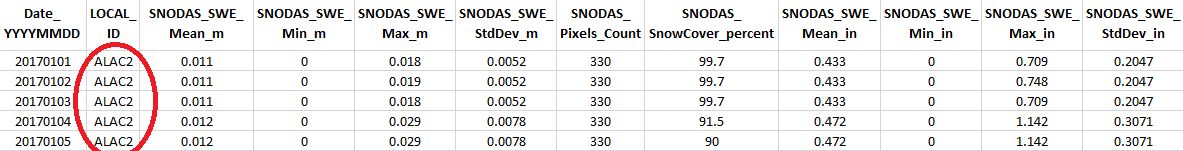
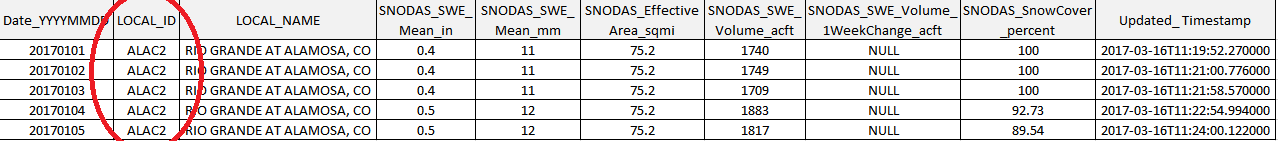
First stage of completing the User Documentation. Although not complete, it is important that this stage of development be pushed up because a version of this document is currently live for our stakeholders to view. The secondary stage will be pushed up/commited when it has been completed.

diff --git a/doc-user-mkdocs-project/docs/process/overview.md b/doc-user-mkdocs-project/docs/process/overview.md
@@ -47,8 +47,8 @@ National SNODAS grids are downloaded to the SNODAS Tools computer for processing
 
 [Daily SNODAS data grids](../data/overview.md#snodas-data-grids) are national grids representing a variety of snowpack parameters. They are developed 
 by NOAA National Weather Service’s National Operational Hydrologic Remote Sensing Center (NOHRSC) and hosted by the National Snow and 
-Ice Data Center (NSIDC). NSIDC stores the daily grids, dating back to September 30th,  2003, in a public FTP site 
-[( ftp://sidads.colorado.edu)](ftp://sidads.colorado.edu) that is updated every day. Although, as mentioned before, the SNODAS products 
+Ice Data Center (NSIDC). NSIDC stores the daily grids, dating back to September 30th,  2003, in a public [FTP site]( ftp://sidads.colorado.edu)
+that is updated every day. Although, as mentioned before, the SNODAS products 
 contain many grids of snowpack parameters, the SNODAS Tools are designed to specifically calculate snowpack statistics in regards to the Snow
 Water Equivalent (SWE) grid. Below is an image of a daily SNODAS grid representing SWE values across the nation. The areas of higher SWE are represented 
 by blue while the areas with lower, or no SWE values, are represented by brown. 
@@ -66,9 +66,10 @@ and [present dates](#download-snodas-data-each-new-day) of SNODAS daily data.
 
 ### Download SNODAS Data (Historical)
 
-The organization of SNODAS files has changed over time. Therefore, the tools perform clean-up to put data into a common format and 
-naming convention for additional processing. Because the national grids are relatively large, they are 
-[clipped to Colorado boundary in the next step](#clip-national-snodas-grid-to-colorado).
+The SNODAS Tools contain a script to download and process all available **historical** dates of SNODAS data. Refer to the
+[SNODAS Tools' Scripts](http://software.openwaterfoundation.org/cdss-app-snodas-tools-doc-dev/software-design/overview/#snodas-tools-scripts) 
+section of the Developer Manual for further details on the historical processing script. 
+
 
 ### Download SNODAS Data (Each New Day)
 
@@ -82,9 +83,11 @@ be available during SNODAS Tools development depending on ongoing costs
 
 ## Clip National SNODAS Grid to Colorado
 
-The masked [SNODAS data grids](../data/overview.md#snodas-data-grids) cover the contiguous United States. To facilitate processing, the national grid is clipped to 
-a boundary that contains the extent of all basins in Colorado. *Note:* Some Colorado basins extend beyond the Colorado state boundary so 
-the Colorado basin extent extends partially into other states.  
+The masked [SNODAS data grids](../data/overview.md#snodas-data-grids) cover the contiguous United States. To facilitate processing, the
+downloaded daily national grids are clipped to a boundary that contains the extent of all basins in Colorado. 
+ 
+*Note: Some Colorado basins extend beyond the Colorado state boundary so 
+the Colorado basin extent extends partially into other states.*  
 
 ![COBasins](overview-images/CO_basin_boundaries.png)
 *Above: The Colorado basins displayed in green. The outline of the Colorado state boundary is overlaid in balck.*
@@ -117,25 +120,35 @@ The output daily snowpack statistics are specific to each basin of the Colorado 
 [the QGIS Zonal Statistics Plugin](https://docs.qgis.org/2.2/en/docs/user_manual/plugins/plugins_zonal_statistics.html),
 the clipped SNODAS daily grid is intersected with the Colorado basin layer and the following statistics are calculated for each basin:
 
-|Statistic (by Basin)|Units|Description|
-|---------|-----|----------|
-|Snow Water Equivalent (SWE) average|inches and meters|a measure of how much water is available to melt out|
-|Snow Water Equivalent (SWE) minimum|inches and meters|a measure of the smallest daily observation of SWE|
-|Snow Water Equivalent (SWE) maximum|inches and meters|a measure of the largest daily observation of SWE|
-|Snow Water Equivalent (SWE) standard deviation|inches and meters|a measure of SWE variation across the basin|
-|Areal Extent of Snow Cover (percent)|unitless|indicates how much of the basin has some level of snow cover|
+|<center>Daily Statistic|<center>Default <br> or <br> Optional</center>|<center>Description|<center>Units|
+|-|-|-|-|
+|Mean Snow Water Equivalent (SWE)|Default|The mean amount of water contained within the snowpack.|Inches and Millimeters|
+|Effective Area|Default|The approximate area excluding large bodies of water.|Square Miles|
+|Percent of Snow Cover|Default|The percent of effective area covered by snow.|unitless|
+|Snow Volume|Default|The amount of water contained in the entire basin's snowpack. Calculated by multiplying the daily mean SWE value by the daily effective area value.|Acre Feet|
+|1 Week Change in Snow Volume|Default|The difference in the current snow volume value from the snow volume value calculated 7 days prior. If positive, the snowpack volume has increased. If negative, the snowpack volume has decreased.| Acre Feet|
+|Minimum SWE|Optional|The daily minimum SWE value.| Inches and Millimeters|
+|Maximum SWE|Optional|The daily maximum SWE value.|Inches and Millimeters|
+|Standard Deviation of SWE|Optional|A measurement of variation in the basin's daily SWE values.|Inches and Millimeters|
 
-### Snowpack Statistics in Tables
+*Note* - *The optional statistics will not be calculated unless they are configured in the [configuration file](http://software.openwaterfoundation.org/cdss-app-snodas-tools-doc-dev/software-design/file-structure/#snodastools92snodasconfigini)
+prior to utilizing the SNODAS Tools.*
 
-The statistics are written to comma-separated-value (CSV) files. The current date's statistics are compiled with the historical 
+The daily statitics are exported in both tabular and spatial formats. 
+
+### Snowpack Statistics Exported as Tabular Data
+
+The daily snowpack statistics are written to comma-separated-value (CSV) files. The current date's statistics are compiled with the historical 
 statistics to create two large repositories of Colorado snowpack statistics, statistics organized ```by date``` and statistics 
 organized ```by basin```. 
 
 **Colorado Snowpack Statistics organized By Date**  
-In this repository a separate csv file is created for each 
+In this repository a separate csv file is created for *each*
 date of processed SNODAS data. Each csv file contains the snowpack statistics for every Colorado basin specific to that date. 
 This repository is useful when analyzing the differences in snowpack statistics across the entire landscape for a given day.
-Below is an example of the Colorado snowpack statistics organized by date CSV file. Right-click on the image and click *Open image 
+Below is an example of the Colorado snowpack statistics organized by date CSV file. 
+
+Right-click on the image and click *Open image 
 in new tab* to see a larger view. The red circle indicates the date column. Note that the date is unchanging throughout the entire CSV file. 
 
 ![StatsByDate](overview-images/statsbydate.png)
@@ -144,29 +157,36 @@ in new tab* to see a larger view. The red circle indicates the date column. Note
 In this repository a separate csv file is 
 created for each Colorado basin. Each csv file contains the snowpack statistics for all historical dates of processed SNODAS 
 data specific to that Colorado basin. This repository is useful when analyzing the differences in snowpack statistics over time 
-given a specific basin. Below is an example of the Colorado snowpack statistics organized by basin CSV file. Right-click on the 
+given a specific basin. Below is an example of the Colorado snowpack statistics organized by basin CSV file.  
+ 
+Right-click on the 
 image and click *Open image in new tab* to see a larger view. The red circle indicates the 
 unique Colorado basin ID (LOCAL_ID). Note that the LOCAL_ID is unchanging throughout the entire CSV file. 
 
 ![StatsByBasin](overview-images/statsbybasin.png)
 
-### Snowpack Statistics in Choropleth Maps
+### Snowpack Statistics Exported as Spatial Data
 
-The daily snowpack statistics can also be viewed via a [choropleth map](http://www.datavizcatalogue.com/methods/choropleth.html). 
+Along with the tabular data, the SNODAS Tools export the daily statistics as spatial data that 
+can be displayed in a geographic information system or a web mapping application. Both a geoJSON file and a shapefile, 
+with the daily snowpack statistics contained in the attribute tables, is produced for every day of SNODAS data that is processed. 
 
-**TODO smalers 2016-12-11 include links to products**
 
 ## Generate Time Series Snowpack Products
 
-The basin statistics for each basin, for each day of the historical period, as saved in the tabular output described in the previous section,
-can be used to create a time series of the statistic and displayed in graphical form.
-The [CDSS TSTool Software](http://software.openwaterfoundation.org/) is used to automate processing the tabular data into graphs,
-which are made available on the web.
+The SNODAS Tools utilize the [CDSS TSTool Software](http://software.openwaterfoundation.org/) to produce time series 
+graphs of the snowpack statistics for each basin. Four time series graphs, examples below, are created for each basin, one graph 
+per default snowpack statistic.
 
-TSTool is also used to accumulate smaller basin statistics into larger basin statistics, to provide data at streamflow forecast points that are used
-for water management.
 
-**TODO egiles 2017-02-06 insert screen shot of TSTool-produced SNODAS graph**
+1. Mean SWE
+![Time Series Graph - SWE Mean](overview-images/TSGraph_mean.png)
+2. Percent of Snow Cover - This time series graph is the only graph that excludes past years of data.  
+![Time Series Graph - Percent Snow Cover](overview-images/TSGraph_snowcover.png)
+3. Snow Volume
+![Time Series Graph - Volume](overview-images/TSGraph_volume.png)
+4. 1 Week Change in Snow Volume  
+![Time Series Graph - Change in Volume](overview-images/TSGraph_changeInVolume.png)
 
 ## Additional Process Details
 
@@ -180,9 +200,7 @@ Basin boundaries were adjusted to prevent double-counting and under-counting in 
 
 ### Handling of Water Bodies
 
-Some basin boundaries represent water body areas within basins.  Statistic calculations for these sub-basins are handled as follows:
 
-* **TODO smalers 2016-12-11 need to describe**
 
 ### Handling Elevation Zones
 
@@ -206,6 +224,3 @@ Are the same statistics represented in the totals or are additional calculations
 **TODO smalers 2016-12-11 Joe Busto indicated an interest in a graph showing percent of melt-out.  Steve needs to discuss with him to get an example.**
 
 
-** Questions for Steve (from Emma) 2016-02-06: Should we include the above key processing steps here even though they are explained in the developer 
-documentation under section "software design: key processing steps"? Should we include any information about the creation of the snow cover grid in 
-the process section of the user documentation?**

diff --git a/doc-user-mkdocs-project/docs/data/overview.md b/doc-user-mkdocs-project/docs/data/overview.md
@@ -10,7 +10,7 @@ The following topics are discussed in this section:
 
 # Overview
 
-The SNODAS Tools calculate snow pack statistics based on the published values of the SNOw Data Assimilation System 
+The SNODAS Tools calculate snowpack statistics based on the published values of the SNOw Data Assimilation System 
 (SNODAS) national data grids. 
 
 ## SNODAS Data Grids
@@ -23,18 +23,18 @@ relevant information regarding this specific project will be explained. All of t
 in detail at
 [http://nsidc.org/data/docs/noaa/g02158_snodas_snow_cover_model/](http://nsidc.org/data/docs/noaa/g02158_snodas_snow_cover_model/).
 
-Multiple national raster grids have been and continue to be created for each day. 
+NOHRSC creates multiple national SNODAS raster grids each day.  
 
 |<center>The 8 parameters of SNODAS data <br> that are produced daily:|
 |-----|
 |Snow Water Equivalent (SWE)|
 |Snow Depth|
-|Snow Melt Runoff at the Base of Snow Pack|
-|Sublimation from the Snow Pack|
+|Snow Melt Runoff at the Base of snowpack|
+|Sublimation from the snowpack|
 |Sublimation of Blowing Snow|
 |Solid Precipitation|
 |Liquid Precipitation|
-|Snow Pack Average Temperature|
+|snowpack Average Temperature|
 
 For the purpose of this project, the only parameter of interest is Snow Water Equivalent (SWE). The daily SWE grid values are
 snapshots of SWE for a specific date at *6:00 AM UTC* (*11:00 PM previous day MST*). Below is an image of a daily SNODAS grid
@@ -78,7 +78,9 @@ naming convention of ```SNODAS_YYYYMMDD.tar``` where YYYYMMDD represents the dat
 
 ![FTPday](overview-images/dayDirectory.png)
 
-**TODO smalers 2016-12-10 provide SNODAS resources and links and explain generally what SNODAS is,
+**TODO smalers 2016-12-10 explain the difference between SNODAS and SNOTEL data**  
+
+  - **provide SNODAS resources and links and explain generally what SNODAS is,
 as well as benefits and limitations, mention that SNODAS is distributed whereas SNOTEL and snow course are measurements at sites.
 Note that people want to correlate SNOTEL with SNODAS but that can be difficult.
 Explain how SNODAS model and data file format has changed over time and this project converts to consistent format.
@@ -94,7 +96,7 @@ and the values are defined by a raster grid. The raster grid is [the daily
 SNODAS SWE grid](#snodas-data-grids). The input zone dataset is a watershed basin boundary shapefile. One set of daily
 snowpack statistics is calculated for each basin, or feature, of the watershed basin boundary shapefile. 
 
-The SNODAS tools were originally designed to calculate snowpack statistics of the basins of Colorado. The
+The SNODAS Tools were originally designed to calculate snowpack statistics of Colorado basins. The
 next section explains the specifications of the original Colorado watershed basin boundary shapefile. 
 
 ### Colorado Basins
@@ -102,10 +104,10 @@ next section explains the specifications of the original Colorado watershed basi
 ![CoBasins](overview-images/COBasins.png)
 
 **TODO smalers 2016-12-11 explain that basins are small HUC-?? and align with National Weather Service (NWS) forecast basins.
-Smaller basins are aggregated to larger totals.
-Elevation zones are used in the basins included in the Northern Colorado Water Conservancy District boundary (Upper Colorado and Poudre Basins),
+Smaller basins are aggregated to larger totals. Elevation zones are used in the basins included in the Northern Colorado Water Conservancy District boundary (Upper Colorado and Poudre Basins),
 and are also accumulated to produce a total for a basin.  Provide a screen shot and ability to download.**
-The basin boundaries for Colorado were defined using input from four NWS River Forecast Centers.
+
+The basin boundaries for Colorado were defined using input from five NWS River Forecast Centers.
 The separate boundary spatial data layers were adjusted to ensure that basin boundaries did not overlap or have gaps.
 This ensures that SNODAS values are not under or over-counted.
 Where adjustments were made, edits were documented in the **TODO smalers need to indicate how the edits are tracked**.

diff --git a/doc-user-mkdocs-project/docs/index.md b/doc-user-mkdocs-project/docs/index.md
@@ -13,13 +13,28 @@ for the [Colorado Water Conservation Board](http://cdss.state.co.us).
 
 ## Overview of SNODAS Tools
 
-The SNODAS Tools calculate daily approximate snowpack zonal statistics of a given input basin boundary shapefile. They estimate 
-daily mean Snow Water Equivalence (SWE), daily minimum SWE, daily maximum SWE, daily SWE standard deviation, pixel count of the basin (with respect 
-to the properties of the SNODAS raster), and daily percentage of land covered by snow. The results of the toolset can be manipulated to produce 
-visually-enticing choropleth maps displaying the various snowpack statistics. Graphs can also be formed to display temporal changes in the SWE statistics 
-across the landscape. These two final visual products are available to display the snowpack landscape over space and time. 
+The SNODAS Tools calculate daily approximate snowpack zonal statistics of a given input basin boundary shapefile. For each feature, or basin, of the 
+input basin boundary shapefile, the SNODAS Tools estimate the following statistics:
 
-Although the toolset was specifically designed for Colorado watersheds, it can also be utilized to estimate the snowpack statistics of any area in the 
+|<center>Daily Statistic|<center>Default <br> or <br> Optional</center>|<center>Description|<center>Units|
+|-|-|-|-|
+|Mean Snow Water Equivalent (SWE)|Default|The mean amount of water contained within the snowpack.|Inches and Millimeters|
+|Effective Area|Default|The approximate area excluding large bodies of water.|Square Miles|
+|Percent of Snow Cover|Default|The percent of effective area covered by snow.|unitless|
+|Snow Volume|Default|The amount of water contained in the entire basin's snowpack. Calculated by multiplying the daily mean SWE value by the daily effective area value.|Acre Feet|
+|1 Week Change in Snow Volume|Default|The difference in the current snow volume value from the snow volume value calculated 7 days prior. If positive, the snowpack volume has increased. If negative, the snowpack volume has decreased.| Acre Feet|
+|Minimum SWE|Optional|The daily minimum SWE value.| Inches and Millimeters|
+|Maximum SWE|Optional|The daily maximum SWE value.|Inches and Millimeters|
+|Standard Deviation of SWE|Optional|A measurement of variation in the basin's daily SWE values.|Inches and Millimeters|
+
+*Note* - *The optional statistics will not be calculated unless they are configured in the [configuration file](http://software.openwaterfoundation.org/cdss-app-snodas-tools-doc-dev/software-design/file-structure/#snodastools92snodasconfigini)
+prior to utilizing the SNODAS Tools.*
+
+The results of the SNODAS Tools can be manipulated to produce 
+visually-enticing choropleth maps displaying the various snowpack statistics. The SNODAS tools also create time-series graphs
+displaying changes in the snowpack statistics over time.  
+
+Although the SNODAS Tools were specifically designed for Colorado watersheds, they can be utilized to estimate the snowpack statistics for any area in the 
 contiguous United States (the bounds of the masked SNODAS data limit the extent of statistical processing – see [SNODAS Data](../data/overview#snodas-data-grids)). 
 
 ## About the Colorado Water Conservation Board
